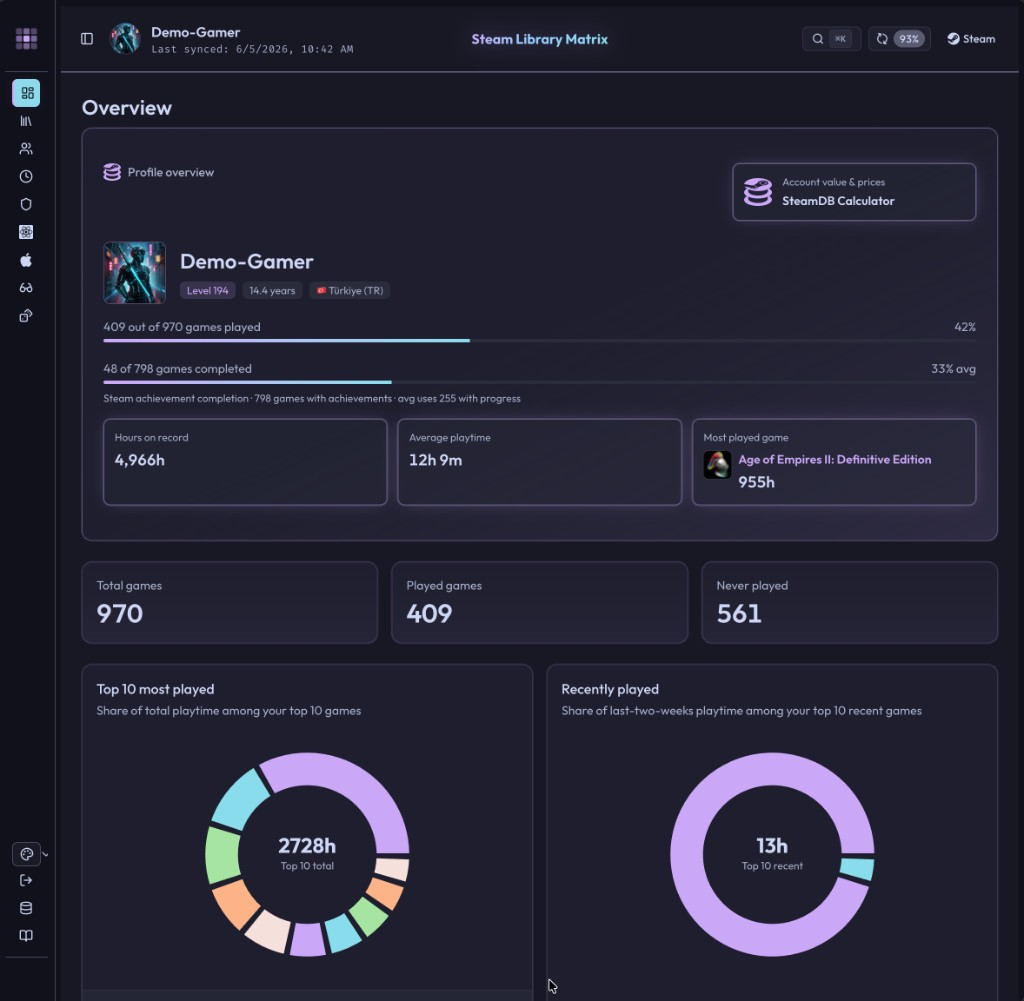
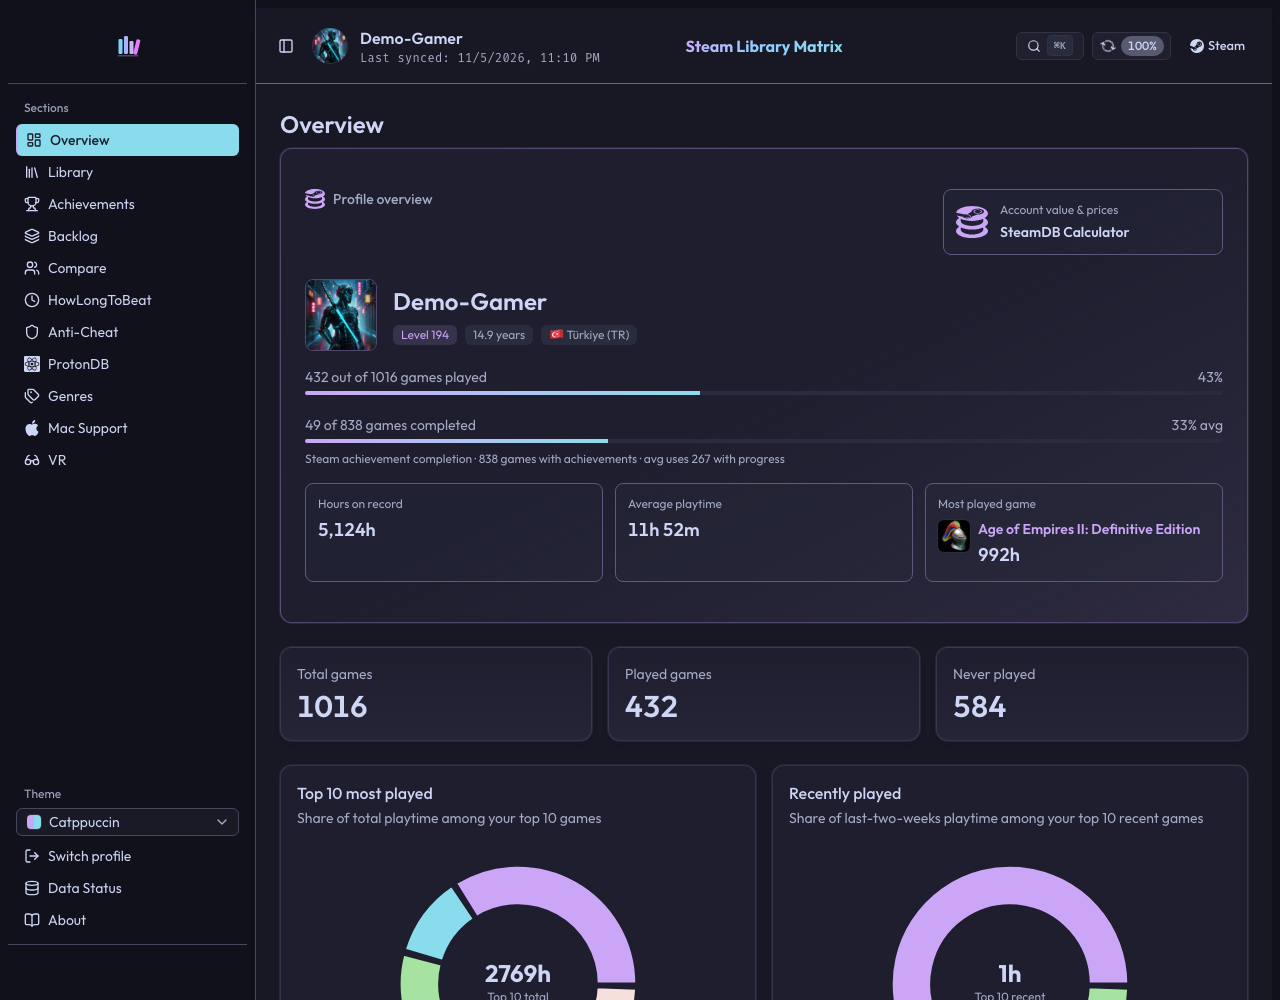
docs: engineering highlights, architecture diagram, fresh screenshots
- README leads with how it works: shared store throttle, resumable
  SQLite job queue, fuzzy matching with confidence, negative caching,
  self-discovering scrapers, bundled seed; plus a decisions/trade-offs
  table and a mermaid data-flow diagram
- retake landing/overview/ProtonDB screenshots from the Docker build
  (persona shown as Demo-Gamer) and add a HowLongToBeat one

(cherry picked from commit 58797ce3bf69d64282f401a95f7b8e29c5c673e9)

diff --git a/README.md b/README.md
@@ -10,12 +10,64 @@
 
 | Landing | Overview |
 | :---: | :---: |
-| ![Steam Library Matrix landing page — import form and source orbit](docs/images/landing.png) | ![Dashboard overview — playtime, completion, and top-played charts](docs/images/overview.png) |
+| ![Steam Library Matrix landing page — import form, source orbit, and scrolling game covers](docs/images/landing.png) | ![Dashboard overview — playtime, completion, and top-played charts](docs/images/overview.png) |
 | Paste a public profile URL, vanity name, or SteamID64 | Profile stats, quick metrics, and playtime distribution |
 
-**ProtonDB compatibility**
+| ProtonDB | HowLongToBeat |
+| :---: | :---: |
+| ![ProtonDB page — tier distribution, filters, and compatibility table](docs/images/protondb.png) | ![HowLongToBeat page — completion times with match confidence and missing-data states](docs/images/howlongtobeat.png) |
+| Linux / Steam Deck tiers with a clickable distribution chart | Completion times, match confidence, and why a time is missing |
 
-![ProtonDB page — tier distribution, filters, and compatibility table](docs/images/protondb.png)
+## Engineering highlights
+
+The interesting part is not the dashboard. It is turning six unreliable, rate-limited, mostly unofficial sources into one consistent library view, inside a single process that a person can run at home.
+
+```mermaid
+flowchart LR
+  U["Browser"] -->|"import / refresh"| API["Next.js API routes<br/>rate limit · Origin check"]
+  API -->|"upsert library"| DB[("SQLite (WAL)<br/>one file")]
+  API -->|"enqueue"| Q["enrichment_jobs<br/>one active job per profile + kind"]
+  W["In-process worker<br/>claims · resumes · retries"] --> Q
+  W --> R["Source registry<br/>app details · ProtonDB · HLTB · achievements"]
+  W --> S["Special steps<br/>anti-cheat · catalogs · wishlist"]
+  R & S -->|"store pages"| T["Shared store throttle<br/>+ circuit breaker (in SQLite)"]
+  T --> EXT["Steam · ProtonDB · HowLongToBeat<br/>AWACY · Levvvel · AppleGamingWiki"]
+  R & S -->|"results + 'no data' rows"| DB
+  SEED["Bundled seed<br/>~1500 top sellers"] -->|"hydrate on boot"| DB
+  DB --> UI["Dashboard pages<br/>+ Data Status"]
+```
+
+- **A store throttle that every process obeys.** Steam's storefront allows about 200 requests per 5 minutes per IP, and it bans abusers. The request budget and a circuit breaker live in a SQLite row, so the web server, the worker and CLI scripts all share one limit instead of each keeping its own. A cooldown pauses the job until `cooldownUntil` instead of burning retries.
+- **A resumable job queue without Redis.** Jobs are rows in `enrichment_jobs`:
+  - A partial unique index allows only one active job per profile and source.
+  - Workers claim jobs inside an `IMMEDIATE` transaction, so two processes never take the same job.
+  - Each step saves a cursor and stops at a time limit, so a 1,000-game library finishes in many short steps and survives restarts.
+  - Locks older than 10 minutes are released, and on boot the worker frees orphaned jobs and prunes old ones.
+  - Follow-up rounds for failed lookups stop after 3.
+- **Fuzzy cross-source matching with honest confidence.** Steam names rarely match community sites exactly ("Rome: Total War - Alexander", "… Definitive Edition").
+  - The HowLongToBeat matcher tries several query variants: the full name, the name without edition words, without the subtitle, and the base title.
+  - It scores every hit for similarity and accepts at 0.72 (0.62 for a base-title match). Anything under 0.55 is rejected.
+  - Low-confidence matches are flagged in the UI, not hidden.
+  - DLC stays searchable, so an expansion matches its own entry, not the base game's times.
+- **"No data" is data.** A confirmed "not on HowLongToBeat" or "no anti-cheat entry" is cached with a time limit, so the queue doesn't loop on it. Temporary failures (network, 429, 5xx, rotated tokens) are not cached and get retried. The UI says which case you're looking at: *N/A*, *Not on HLTB*, *Pending* or *Retrying*.
+- **Scrapers built to break loudly.** HowLongToBeat's search endpoint and token are discovered from its own JavaScript bundle at runtime. Levvvel is parsed from HTML and AWACY from its `games.json`, with saved fixtures in tests. When a site changes, the Data Status page shows that source's last run as failed, with the error. It doesn't silently serve stale data.
+- **Instant first load from a bundled seed.** About 1,500 top-selling games come pre-enriched in `data/seed/` and are loaded into SQLite on first start. A new profile shows most of its data right away while the worker fills in the rest.
+- **Hardened for a LAN app:**
+  - A nonce-based CSP with `strict-dynamic`, and an Origin check on every write route.
+  - A global rate limit that a spoofed `X-Forwarded-For` header can't reset.
+  - A Docker container with dropped capabilities that listens on loopback only.
+  - 416 tests, including real-SQLite tests for the job queue, migrations and import upserts, run in CI.
+
+### Decisions and trade-offs
+
+| Decision | Why | What it costs |
+| --- | --- | --- |
+| **SQLite, one file** instead of Postgres | Nothing to run or back up beyond one file. WAL mode handles one writer plus readers easily. | A single machine only. Concurrent writers need care, hence the `IMMEDIATE` claims and the shared throttle row. |
+| **In-process worker** instead of Redis / BullMQ | No extra service to deploy. The queue is plain rows, so the Data Status page can show it directly. | Throughput is tied to one process. `/api/cron/process-jobs` exists for running the worker from outside. |
+| **HTTP scraping, no headless browser** | Cheap, fast, and easy to test with fixtures. No Chromium in the image. | Fragile when sites redesign, so parsers are small, tested, and their health shows on Data Status. |
+| **Bundled seed data** | A new user sees results in seconds, not after an hour of throttled requests. | A larger repository, and the seed needs regenerating now and then (`pnpm seed:generate`). |
+| **Best effort, with confidence shown** | Community data is incomplete. Showing confidence and "why missing" is more useful than hiding uncertain matches. | Users sometimes see a wrong match, but it's labeled low confidence. |
+| **No login, LAN-first** | It's a personal tool. Accounts would add a lot of code for no benefit at home. | Not safe to expose to the internet as-is (see [docs/security.md](docs/security.md)). The open API is rate-limited and CSRF-protected. |
 
 ## Features
 
